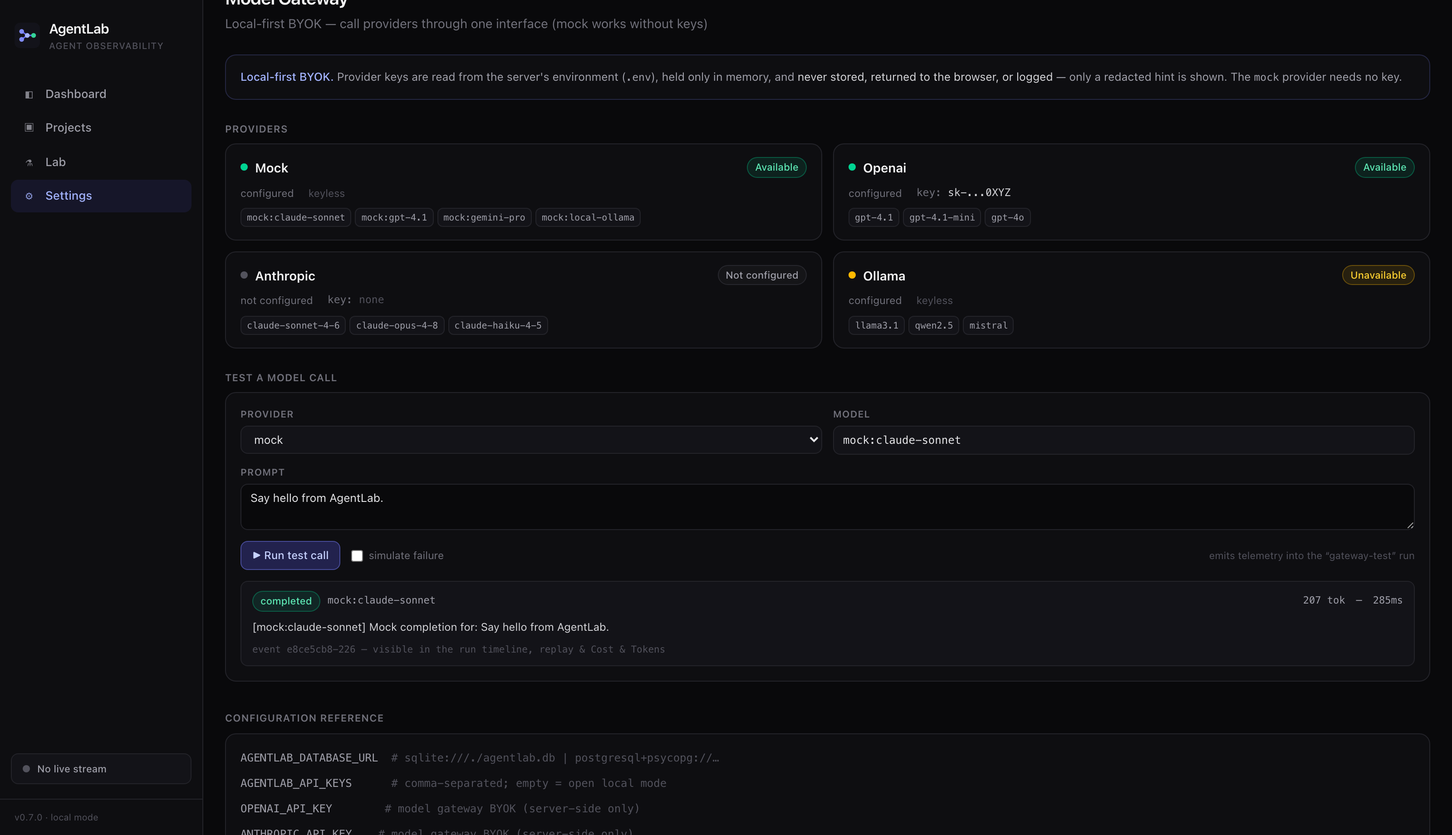
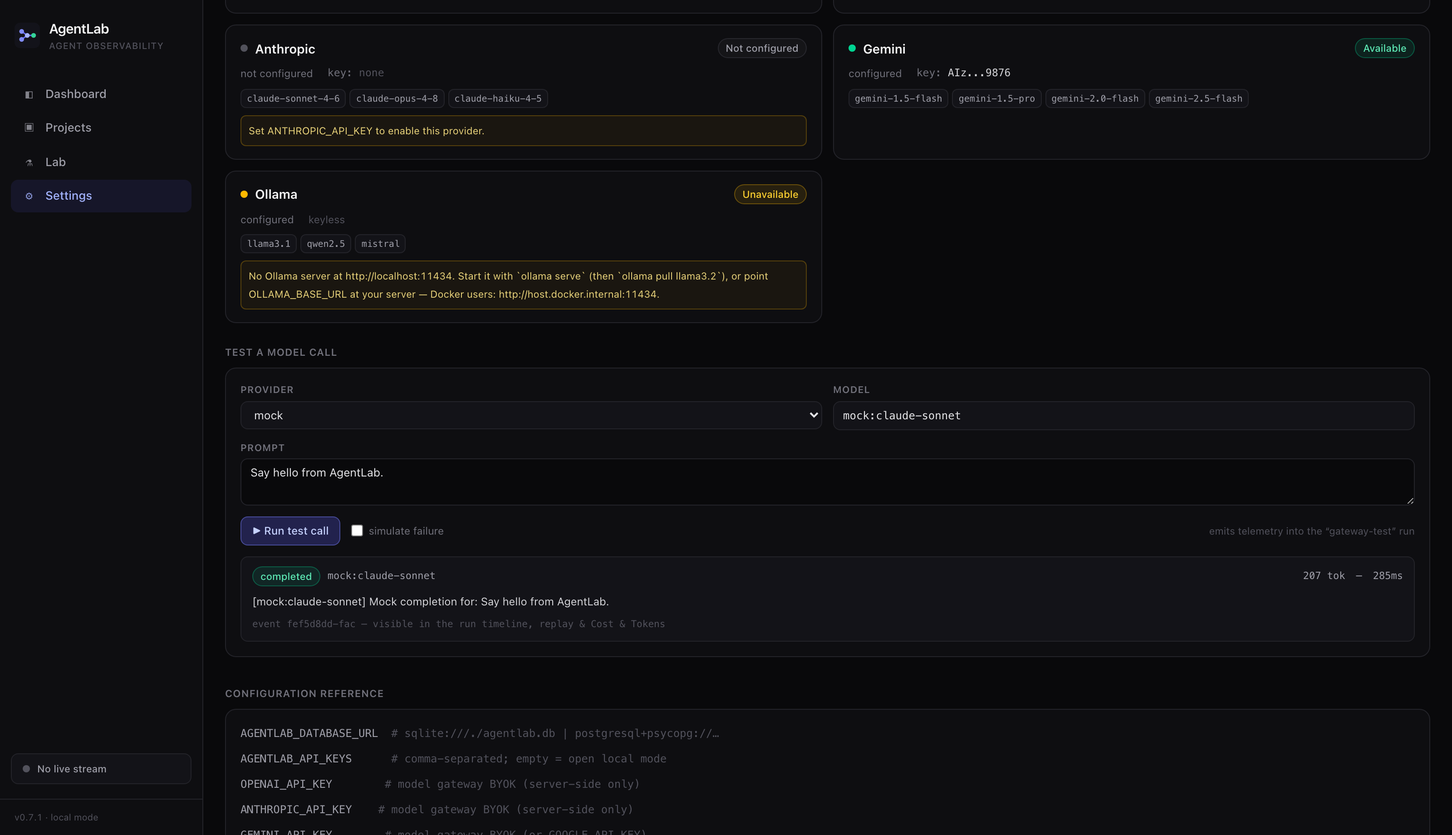
docs(v0.7.1): Gemini + Ollama troubleshooting shipped — README gateway guide + refreshed screenshot, ARCHITECTURE, ROADMAP, spec; add HANDOFF.md

diff --git a/docs/HANDOFF.md b/docs/HANDOFF.md
@@ -1,0 +1,140 @@
+# AgentLab — Project Handoff Packet
+
+> Snapshot taken 2026-06-12, at the start of the v0.7.1 Model Gateway patch.
+> Status in §6 reflects that moment; see git history for anything later.
+
+## 1. One-paragraph product summary
+
+AgentLab is a production-style observability and control plane for multi-agent AI systems — "Wireshark + Mininet + Kubernetes for AI agents." It instruments agent apps via a zero-dependency Python SDK, collects events into a FastAPI backend, and renders a dark-mode React dashboard: live agent topology (React Flow), message-level inspection, run metrics, a replay debugger, a fault-injection lab, a malicious-agent cyber range, a deterministic trust/risk engine, a cost/token profiler, and a local-first model gateway with BYOK. What makes it different from prompt-tracing tools (LangSmith/Langfuse): it treats a multi-agent run as a network (agents=nodes, messages=packets, runs=captures) and is the debugging/testing/control layer on top of any framework. Repo is a portfolio-grade project at `/Users/aryannagwekar/public1/agentlab` (own git repo, branch `main`). Built incrementally with an explicit owner approval gate between every version.
+
+## 2. Completed versions
+
+Each shipped with: live browser verification, generated screenshots (`apps/web npm run screenshots` → `docs/screenshots/`), docs (README/ARCHITECTURE/ROADMAP/PRODUCT_SPEC), and a final report ending in an approval question.
+
+- **v0.1 Live Observability** — SDK (`packages/sdk-python/agentlab/`: `_events.py` 22-type registry, `_context.py` contextvars run→agent→span, `_transport.py` buffered bg-thread urllib POST w/ retry+outage buffering, `client.py`, `decorators.py`). FastAPI collector (`apps/api/app/`: `collector.py` projections, `models.py`, `graph.py`, `metrics.py`, `ws.py`, routers). Append-only `events` table is source of truth; runs/agents/messages/tool_calls/routing_decisions are ingest-time projections. React dashboard (Vite+TS+Tailwind v4, React Flow v12, Recharts, zustand). Docker Compose + nginx + Makefile + CI. Limitation: `create_all` not Alembic; single-node WS.
+- **v0.2 Replay Debugger** — `app/replay.py` `fold_events` (pure event fold), endpoints `/runs/{id}/replay` (tape+markers) & `/replay/graph?index=k`. Frontend `components/replay/` (`replayReducer.ts` mirror, ReplayControls, ReplayView): play/pause/step/scrub, jump-to-error/tool/routing, inspector follows playhead. Limitation: tape loads once (≤5000 events), folds from scratch per cursor.
+- **v0.3 Fault Injection Lab** — `app/lab.py` (6 fault types), endpoints `/lab/fault-templates`, POST/GET `/runs/{id}/faults`. Faults = `fault.injected` + realistic follow-up telemetry. Frontend Lab page. `markers.faults` + Fault jump. Limitation: telemetry simulation only (no live traffic interception); quarantine is a visualization marker.
+- **v0.4 Malicious Agent Simulation** — `app/attacks.py` (8 attack types), endpoints `/lab/attack-templates`, POST/GET `/runs/{id}/attacks`. New event types `agent.joined`/`agent.suspicious`/`message.flagged`. Security Lab UI (mode toggle), suspicious/quarantine node states, flagged amber edges, `markers.attacks` + Attack jump. SAFETY: all mock — `MOCK_` literals, `safe_simulation:true`, `real_secrets_accessed:false`, `real_network_access:false`; no real files/env/network/shell. lab-controller excluded from topology.
+- **v0.5 Trust/Risk Engine** — `app/scoring.py` deterministic pure event-fold (Effect rule table: deltas + floors/ceilings; attack/fault score the TARGET not lab-controller; suspicious=trust≤0.5/risk≥0.6, quarantine=trust 0.1–0.2/risk≥0.9). ONE rule table shared by collector (stored Agent row)+graph+replay+metrics+JS mirror `apps/web/src/lib/scoring.ts`. Endpoints `/runs/{id}/scores|score-history|risk-summary`, `/agents/{id}/scores`. Fixed headline bug: quarantined malicious agent reads trust 0.10/risk 1.0, not 1.0. Scores derived on read → no `score.updated` emitted → no feedback loops. UI: tier badges, ScorePanel (reason+factors+history), RiskSummaryView, replay score evolution. Limitation: scores+explains but does NOT enforce (no routing impact/decay).
+- **v0.6 Cost/Token Attribution** — `app/pricing.py` static MODEL_PRICING (mock providers, USD/1M tokens, local-ollama free) + `app/costing.py` pure fold over `model.*` events → per-agent/model/run tokens+cost+latency+failures+retries. Cost ALWAYS recomputed from tokens (single source) shared by costs endpoints + metrics + graph + collector-finalize + JS mirror `apps/web/src/lib/costing.ts`. Endpoints `/runs/{id}/costs|token-summary`, `/agents/{id}/costs`, `/projects/{id}/cost-summary`. SDK `log_model_call` gained provider/model_name/input/output_tokens (back-compat). UI: Cost & Tokens tab (cards, ranking bars, model-by-provider, agent table), model-call inspector, replay "Cost so far" strip. Demo: coder most-expensive (claude-sonnet), researcher most-token-heavy (gpt-4.1), security free (local-ollama). Limitation: static pricing, mock providers only; failed call still costs input tokens (intentional).
+- **v0.7 Model Gateway / BYOK** — `app/model_gateway/`: `base.py` (ModelRequest/Response/ProviderHealth/ModelProvider + `redact_key`), `providers/` mock (keyless deterministic)/openai_compatible/anthropic/ollama, `_http.py` (stdlib urllib via asyncio.to_thread; strips headers from errors), `registry.py` (built from Settings → app.state), `telemetry.py` (gateway call → `model.called`+`completed`/`failed` through collector). `routers/model_gateway.py`: GET `/model-gateway/providers`, `/providers/{p}/health`, POST `/model-gateway/test-call`, `/runs/{id}/model-call`. SDK `client.model_call()` (clean `model.failed` if gateway unreachable, never raises). KEY SAFETY: keys env-only via Settings validation_alias + populate_by_name=True; never stored/returned/logged; only `redact_key` hint (`sk-...abcd`) exposed; a test plants a fake key and greps responses for leaks. UI: Settings → Model Gateway (provider cards + safe test-call). Demo `--use-gateway`. Frontend tests use Testing Library + jsdom (`// @vitest-environment jsdom`). Limitation: local-first BYOK only (no cloud secret storage), no Gemini provider yet (was deferred → now v0.7.1).
+
+## 3. Current architecture
+
+- **Backend (`apps/api/app/`)**: FastAPI app factory `main.py` (`create_app(Settings)`, lifespan create_all w/ Postgres retry, CORS, `/api/health`, WS). `config.py` Settings (env_prefix `AGENTLAB_`, populate_by_name=True; provider keys via `validation_alias=AliasChoices(...)`). `db.py` (engine per app), `models.py` (Project/Run/Agent[PK project_id+id]/Event[append-only, `meta`→`metadata` col]/Message/ToolCall/RoutingDecision), `schemas.py` (Pydantic wire contract). Routers: events, projects, runs, agents, lab, scoring, costs, model_gateway. Engines: `scoring.py`, `costing.py`, `pricing.py`, `graph.py`, `replay.py`, `metrics.py`, `model_gateway/`.
+- **Event pipeline**: SDK buffered transport → POST `/api/events` (single or `{events:[...]}`, idempotent by `event_id`, optional X-API-Key) → `collector.process_events` (auto-create project/run/agent shells, per-type projections, applies scoring+costing to stored Agent/Run rows) → WS broadcast per project. Read APIs derive graph/metrics/scores/costs/replay on read from the event stream.
+- **DB/projections**: SQLite default (`AGENTLAB_DATABASE_URL`), Postgres in compose. `events` append-only source of truth; everything else is a projection. JSON cols (JSONB on Postgres). Timestamps naive UTC, serialized with Z.
+- **WebSocket**: WS `/ws/projects/{project_id}`, server-push `{type:"event", data:EventOut}`, per-project ConnectionManager, dead-socket eviction never breaks ingest. Frontend `hooks/useProjectStream.ts` reconnecting.
+- **Replay fold**: ordered tape (timestamp, id); `fold_events`/`foldReplayGraph` reconstruct topology at cursor k; scoring + costing JS mirrors give per-cursor evolution. Same-semantics Python↔JS pinned by pytest+vitest.
+- **Frontend (`apps/web/src/`)**: `lib/` (api.ts, types.ts, format.ts, status.ts, scoring.ts, costing.ts), `components/` (topology, timeline, inspector, replay, metrics, scoring, costs, gateway, layout, ui), `pages/` (Dashboard, Projects, ProjectDetail, RunDetail[tabs: topology/timeline/metrics/cost/replay], AgentDetail, Lab, Settings). RunDetail inspector gets runId for run-scoped score panels.
+- **SDK (`packages/sdk-python/agentlab/`)**: zero runtime deps; `AGENTLAB_DISABLED=1` no-op; `model_call` does direct urllib POST to gateway (stores `self._api_key`).
+
+## 4. Important commands
+
+```sh
+make install                                   # venv + editable installs + npm install
+make dev                                       # API :8000 (SQLite) + seed-if-empty + dashboard :5173
+make demo                                      # seed demo runs
+make test                                      # backend + SDK pytest  (apps/api/tests + packages/sdk-python/tests)
+cd apps/web && npm test                        # vitest (incl. jsdom component tests)
+cd apps/web && npm run build                   # tsc --noEmit && vite build
+cd apps/web && npm run screenshots             # Playwright → docs/screenshots (needs API+demo seeded)
+make up-demo                                   # docker compose stack + seed (:3000)
+python examples/basic_multi_agent/run_demo.py --fast --seed 5                    # seed all 5 scenarios
+python examples/basic_multi_agent/run_demo.py --scenario success --use-gateway   # route via gateway (mock)
+# Model gateway:
+curl localhost:8000/api/model-gateway/providers
+curl -X POST localhost:8000/api/runs/<run>/model-call -H 'Content-Type: application/json' \
+  -d '{"provider":"mock","model_name":"mock:claude-sonnet","prompt":"hi","agent_id":"planner","project_id":"demo-project"}'
+# Ollama check:
+curl http://localhost:11434/api/tags           # ollama serve; ollama pull llama3.2
+```
+
+Preview server config: `agentlab-web` entry in `/Users/aryannagwekar/public1/.claude/launch.json` (shared with aryan-junction — don't clobber). React Flow nodes need real pointerdown/up events in preview, not synthetic `.click()`.
+
+## 5. Environment variables
+
+| Var | Required? | Notes |
+| --- | --- | --- |
+| `AGENTLAB_DATABASE_URL` | optional | default `sqlite:///./agentlab.db`; compose injects Postgres |
+| `AGENTLAB_API_KEYS` | optional | comma-sep; empty = open local mode; if set, write path needs X-API-Key |
+| `AGENTLAB_CORS_ORIGINS` | optional | default localhost:3000,5173 |
+| `AGENTLAB_DISABLED` | optional | `=1` makes SDK a no-op |
+| `OPENAI_API_KEY` / `OPENAI_BASE_URL` | optional | gateway BYOK; base_url default api.openai.com/v1 (also OpenRouter via `OPENROUTER_API_KEY`) |
+| `ANTHROPIC_API_KEY` | optional | gateway BYOK |
+| `GEMINI_API_KEY` / `GOOGLE_API_KEY` | optional | added in v0.7.1; GEMINI preferred (AliasChoices left-to-right); `GEMINI_BASE_URL` overridable for tests |
+| `OLLAMA_BASE_URL` | optional | default http://localhost:11434; Docker users: http://host.docker.internal:11434 |
+
+**Key security rules (NON-NEGOTIABLE)**: keys read from server env only (never DB), never returned to frontend, never logged, never in exceptions (HTTP helper strips headers), never committed (`.env` gitignored; `.env.example` placeholders only). UI shows redacted hint only (`sk-...abcd` / `AIza...abcd`). Mock provider works with zero keys. A pytest plants a fake key and greps all responses to prove no leak.
+
+## 6. Current exact status (at snapshot time)
+
+- **Version**: v0.7 fully shipped & committed (api/web both at 0.7.0). **v0.7.1 IN PROGRESS, UNCOMMITTED.**
+- **Latest commits (HEAD = 419e144)**: `419e144` docs(v0.7) · `744fc11` feat(web) gateway UI · `2f9287c` feat(api+sdk) gateway · then v0.6 commits.
+- **Test counts (v0.7, all green)**: 130 pytest (apps/api + SDK), 42 vitest. Clean web build, zero console errors.
+- **Known bugs**: none open. (v0.4 trust=1.0 bug fixed in v0.5.)
+- **Known limitations**: static pricing/mock providers for cost; gateway local-first BYOK only; scoring doesn't enforce; replay tape snapshot ≤5000 events; create_all not Alembic; read API unauthenticated in local mode.
+- **Fully demoable**: all of v0.1–v0.7 (topology, replay, fault lab, security lab, trust/risk, cost/tokens, model gateway test-call).
+- **Not built yet**: Gemini provider UI/tests + Ollama troubleshooting (v0.7.1, partially done), Agent Builder Studio (v0.8), framework adapters, teams/auth, hosted platform.
+
+### EXACT v0.7.1 in-progress state (uncommitted working-tree changes)
+
+DONE (uncommitted):
+
+- `apps/api/app/model_gateway/providers/gemini.py` — full GeminiProvider (generateContent API, key as `?key=` query param, defensive usageMetadata parsing, models gemini-1.5-flash/1.5-pro/2.0-flash/2.5-flash, not_configured w/o key, complete/health_check, redact_key).
+- `apps/api/app/config.py` — added `gemini_api_key` (AliasChoices GEMINI_API_KEY, GOOGLE_API_KEY, AGENTLAB_GEMINI_API_KEY) + `gemini_base_url`.
+- `apps/api/app/model_gateway/registry.py` — registered GeminiProvider between anthropic and ollama.
+
+STILL TODO for v0.7.1:
+
+- `schemas.py` ProviderOut: add `message: str | None = None`.
+- `routers/model_gateway.py` list_providers: populate `message=health.detail`.
+- `providers/ollama.py` health_check: richer troubleshooting detail (mention OLLAMA_BASE_URL value + host.docker.internal for Docker).
+- Version bumps to 0.7.1: `apps/api/app/main.py` API_VERSION, `apps/api/pyproject.toml`, `apps/web/package.json`, `apps/web/src/components/layout/Shell.tsx` ("v0.7.1 · local mode").
+- `.env.example`: add GEMINI_API_KEY/GOOGLE_API_KEY + Ollama Docker host.docker.internal note.
+- Backend tests (`apps/api/tests/test_model_gateway.py`): Gemini in registry, not_configured w/o key, configured w/ key, redacted, no key leak (extend planted-secret test to include Gemini), gemini test-call failure captured safely (use gemini_base_url → `http://127.0.0.1:9/...` for fast connection-refused), ollama unavailable helpful message.
+- Frontend: `lib/types.ts` `Provider.message?: string`; `components/gateway/ModelGateway.tsx` render message hint (amber for unavailable/not_configured); `ModelGateway.test.tsx` add Gemini card + Ollama-unavailable-message tests (extend fixture with gemini + ollama-unavailable).
+- Docs: README (Gemini in providers list + Ollama troubleshooting block: curl /api/tags, ollama serve, ollama pull llama3.2, Docker host.docker.internal), ARCHITECTURE, ROADMAP, PRODUCT_SPEC; mention Gemini key stays server-side, Agent Builder Studio remains v0.8.
+- Run `make test` + `cd apps/web && npm test && npm run build`; live-verify provider cards (5 now: Mock/OpenAI/Anthropic/Gemini/Ollama) + key-leak grep; commit; final report.
+
+## 7. Next planned work
+
+1. **FIRST — finish v0.7.1 Model Gateway patch** (above TODO list). Do NOT start Agent Builder Studio until this is committed and green.
+2. **THEN — v0.8 Agent Builder Studio** (only after explicit approval): visual workflow builder; create agents; assign provider/model per agent (built on the gateway); connect agents; run workflow; emit normal AgentLab telemetry (reuse `model.`/`agent.`/`message.*` events so graph/replay/cost/trust all work for free); show replay/cost/failure attribution. No SaaS/auth/billing/templates/cloud-secrets.
+
+## 8. Critical product direction
+
+The arc: turn AgentLab from an observability tool into "a full multi-agent development studio where users connect OpenAI/Claude/Gemini/Ollama, build workflows, run them, and visually see which agent failed, which used the most tokens, which cost the most, and what happened step by step." Every layer so far (gateway, cost, trust, replay) is the substrate for the v0.8 studio. Keep the "instrument → collect → visualize → inspect → replay → test → attribute" loop intact; the studio just adds authoring on top.
+
+## 9. Rules for the next assistant
+
+- Keep versions disciplined; one version at a time; always end each version with a final report and the approval question, then STOP.
+- Do NOT build SaaS/auth/RBAC/billing/Slack-alerts/cloud-secret-storage/policy-engine yet.
+- Do NOT skip v0.7.1 — finish Gemini + Ollama patching first.
+- Do NOT start Agent Builder Studio until the Model Gateway is stable & committed.
+- Keep the mock provider working without any keys; never expose/store/log API keys (redacted only); keep `.env` gitignored.
+- Keep ALL tests passing (run `make test` + `npm test` + `npm run build` before every commit); maintain Python↔JS mirror parity (scoring.py↔scoring.ts, costing.py↔costing.ts, replay fold).
+- Single-source-of-truth discipline: derive on read; don't duplicate aggregation logic.
+- Verify live in browser preview with real screenshots before claiming done; never assert without evidence.
+- Commit style: `feat(scope):`/`docs(vX):` with `Co-Authored-By: Claude Fable 5 <noreply@anthropic.com>`. Branch `main`.
+- Project memory lives at `/Users/aryannagwekar/.claude/projects/-Users-aryannagwekar-public1/memory/agentlab-project.md` (update phase status there).
+
+## 10. Exact next prompt to paste into a new chat
+
+> Continue the AgentLab project at /Users/aryannagwekar/public1/agentlab (branch main). Read /Users/aryannagwekar/.claude/projects/-Users-aryannagwekar-public1/memory/agentlab-project.md and ARCHITECTURE.md first.
+>
+> Finish v0.7.1 Model Gateway patch (do NOT start v0.8 Agent Builder Studio yet). v0.7 is fully committed (HEAD 419e144, 130 pytest + 42 vitest green). v0.7.1 is partially done in the working tree, uncommitted: model_gateway/providers/gemini.py (GeminiProvider) exists, config.py has gemini_api_key/gemini_base_url, and registry.py registers Gemini. Run git status and make test to confirm the starting point.
+>
+> Complete v0.7.1:
+> - schemas.py ProviderOut: add message: str | None; routers/model_gateway.py list_providers: set message=health.detail.
+> - providers/ollama.py health_check: richer troubleshooting message (include the OLLAMA_BASE_URL value and a host.docker.internal:11434 hint for Docker users).
+> - Bump versions to 0.7.1: app/main.py API_VERSION, apps/api/pyproject.toml, apps/web/package.json, Shell.tsx.
+> - .env.example: add GEMINI_API_KEY/GOOGLE_API_KEY + Ollama Docker host.docker.internal note.
+> - Backend tests (test_model_gateway.py): Gemini registry/not-configured/configured/redacted/no-key-leak (extend the planted-fake-key grep test to include a fake GEMINI_API_KEY), Gemini test-call failure captured safely (point gemini_base_url at http://127.0.0.1:9/... for a fast connection-refused), Ollama unavailable returns the helpful message. Keep all existing v0.7 tests green.
+> - Frontend: types.ts Provider.message?; ModelGateway.tsx render the troubleshooting hint (amber for unavailable/not_configured) and show OLLAMA_BASE_URL; ModelGateway.test.tsx add Gemini-card + Ollama-unavailable-message tests; never show a raw key.
+> - Docs (README/ARCHITECTURE/ROADMAP/PRODUCT_SPEC): Gemini added in v0.7.1 (key server-side, redacted), Ollama troubleshooting (curl localhost:11434/api/tags, ollama serve, ollama pull llama3.2, Docker host.docker.internal), keys still never stored in DB, Agent Builder Studio remains v0.8.
+> - Run make test + cd apps/web && npm test && npm run build; verify live that 5 provider cards render (Mock/OpenAI/Anthropic/Gemini/Ollama) with redacted keys and a key-leak grep finds nothing; regenerate the model-gateway screenshot; commit.
+>
+> Security rules: keys env-only, never stored/returned/logged/committed; redacted in UI; mock provider works without keys. Discipline: keep all tests passing, derive-on-read single source of truth, maintain Python↔JS mirror parity, verify live with screenshots.
+>
+> When v0.7.1 is complete, stop and give the final report (files changed, commits, tests, Gemini status, Ollama troubleshooting improvement, security guarantees, demoability) and ask: "Do you approve AgentLab v0.7.1 Model Gateway patch so I can continue to v0.8 Agent Builder Studio?"

diff --git a/README.md b/README.md
@@ -10,7 +10,7 @@ run metrics, a replay debugger that steps through any run like a packet
 capture, a fault-injection lab, a safe cyber range for simulating malicious
 agents, a deterministic trust/risk engine, a cost/token profiler, and a
 local-first model gateway with safe BYOK across mock / OpenAI / Anthropic /
-Ollama providers.
+Gemini / Ollama providers.
 
 `Python 3.12` · `FastAPI` · `PostgreSQL/SQLite` · `React 18 + TypeScript` · `React Flow` · `WebSockets` · `Docker Compose`
 
@@ -35,7 +35,7 @@ AgentLab treats an agent system the way network engineers treat a network:
 agents are nodes, messages are packets, runs are captures you can open,
 inspect, and (soon) replay.
 
-## What works today (v0.7)
+## What works today (v0.7.1)
 
 | Capability | Status |
 | --- | --- |
@@ -52,7 +52,7 @@ inspect, and (soon) replay.
 | Security Lab — 8 simulated malicious-agent attacks (prompt injection, mock exfiltration, fake capabilities, spam, trust poisoning, routing manipulation, unsafe tool request, rogue join); suspicious/quarantine markers, flagged edges, attack replay markers — all mock data, nothing real touched | ✅ |
 | Trust/risk engine — deterministic, event-derived, explainable scores: per-agent trust + risk, tier badges (trusted → high-risk), "why it changed" factors, score history, run risk summary, and scores that evolve step-by-step in replay | ✅ |
 | Cost/token profiler — deterministic local pricing; per-agent + per-model + per-run token and USD attribution; most-expensive / most-token-heavy / slowest / failed-call rankings; model-call inspector; cost that accumulates in replay | ✅ |
-| Model gateway / BYOK — one provider interface (mock + OpenAI-compatible + Anthropic + Ollama); local-first keys (env-only, never stored/returned/logged, redacted in UI); provider health + safe test-call UI; gateway calls flow into telemetry, replay, and Cost & Tokens | ✅ |
+| Model gateway / BYOK — one provider interface (mock + OpenAI-compatible + Anthropic + Gemini + Ollama); local-first keys (env-only, never stored/returned/logged, redacted in UI); provider health + troubleshooting hints + safe test-call UI; gateway calls flow into telemetry, replay, and Cost & Tokens | ✅ |
 | Agent Builder Studio (create agents + assign models in-app) | 🔜 v0.8 |
 
 ## Architecture
@@ -203,7 +203,7 @@ local-first BYOK — keys are env-only and shown **only redacted** (`sk-...0XYZ`
 the mock provider needs no key, and a test call flows straight into telemetry
 and Cost & Tokens:
 
-![Model Gateway: provider cards (mock available, OpenAI configured with a redacted key, Anthropic not configured, Ollama unavailable) and a safe test-call panel](docs/screenshots/model-gateway.png)
+![Model Gateway: five provider cards (mock available, OpenAI and Gemini configured with redacted keys, Anthropic not configured with an env-var hint, Ollama unavailable with a troubleshooting hint) and a safe mock test call](docs/screenshots/model-gateway.png)
 
 | Fleet dashboard | Message inspector |
 | --- | --- |
@@ -311,25 +311,28 @@ Endpoints: `GET /api/runs/{id}/costs`, `/runs/{id}/token-summary`,
 `mock:gpt-4.1`, `mock:claude-sonnet`, `mock:gemini-pro`, `mock:local-ollama`
 (free). Connecting real providers (BYOK / model gateway) is v0.7.
 
-## Model Gateway / BYOK (v0.7)
+## Model Gateway / BYOK (v0.7, patched in v0.7.1)
 
 AgentLab calls models through one provider interface
 (`apps/api/app/model_gateway/`). The **mock** provider is the keyless default;
-**OpenAI-compatible**, **Anthropic**, and **Ollama** providers are included, and
-OpenRouter reuses the OpenAI-compatible path. A model call (from the SDK's
-`client.model_call(...)`, the test-call UI, or `POST /api/runs/{id}/model-call`)
-runs the provider and emits `model.called` + `model.completed`/`model.failed`
-through the normal collector — so it shows up in the graph, replay, inspector,
-metrics, and Cost & Tokens automatically.
+**OpenAI-compatible**, **Anthropic**, **Gemini** (added in v0.7.1), and
+**Ollama** providers are included, and OpenRouter reuses the OpenAI-compatible
+path. A model call (from the SDK's `client.model_call(...)`, the test-call UI,
+or `POST /api/runs/{id}/model-call`) runs the provider and emits
+`model.called` + `model.completed`/`model.failed` through the normal
+collector — so it shows up in the graph, replay, inspector, metrics, and Cost
+& Tokens automatically.
 
 **Key handling (local-first, safe by construction):**
 
 - Keys are read from the **server environment only** (`OPENAI_API_KEY`,
-  `ANTHROPIC_API_KEY`, `OLLAMA_BASE_URL`, `OPENROUTER_API_KEY`).
+  `ANTHROPIC_API_KEY`, `GEMINI_API_KEY`/`GOOGLE_API_KEY` — GEMINI wins when
+  both are set — `OLLAMA_BASE_URL`, `OPENROUTER_API_KEY`).
 - They are **never** stored in the database, returned to the browser, written to
   logs, or included in error messages (HTTP errors strip request headers).
-- The UI shows **only a redacted hint** (`sk-...abcd`); an unconfigured provider
-  reads "not configured"; Ollama with no server reads "unavailable".
+- The UI shows **only a redacted hint** (`sk-...abcd` / `AIz...abcd`); an
+  unconfigured provider reads "not configured" with the env var to set; Ollama
+  with no server reads "unavailable" with a fix-it hint.
 - `.env` is git-ignored; `.env.example` ships placeholders only.
 
 Configure a provider by setting its key in `.env`, then open **Settings → Model
@@ -340,7 +343,18 @@ Seed a gateway-routed demo run with:
 python examples/basic_multi_agent/run_demo.py --scenario success --use-gateway
 ```
 
-## Known limitations (v0.1–v0.7)
+**Ollama troubleshooting.** If the Ollama card reads "unavailable":
+
+```bash
+curl http://localhost:11434/api/tags   # is the server up?
+ollama serve                           # start it
+ollama pull llama3.2                   # get a model
+```
+
+The card shows the `OLLAMA_BASE_URL` it tried. Running AgentLab in Docker
+against Ollama on the host? Set `OLLAMA_BASE_URL=http://host.docker.internal:11434`.
+
+## Known limitations (v0.1–v0.7.1)
 
 - **Model gateway is local-first BYOK only.** Keys live in the server's
   environment; there is no hosted/cloud secret storage, no per-user key

diff --git a/ARCHITECTURE.md b/ARCHITECTURE.md
@@ -409,10 +409,18 @@ cost.
 
 **Providers.** `mock` (keyless default — deterministic output + token usage,
 configurable latency/failure, never networks), `openai` (OpenAI-compatible
-chat completions, reused for OpenRouter), `anthropic` (messages API), `ollama`
-(local `/api/generate`). Real providers call out with stdlib `urllib` on a
-worker thread (`asyncio.to_thread`) — no new dependency, event loop never
-blocked.
+chat completions, reused for OpenRouter), `anthropic` (messages API), `gemini`
+(generateContent API, added in v0.7.1 — `GEMINI_API_KEY`/`GOOGLE_API_KEY`,
+GEMINI preferred; key stays server-side and is redacted like every other
+provider), `ollama` (local `/api/generate`). Real providers call out with
+stdlib `urllib` on a worker thread (`asyncio.to_thread`) — no new dependency,
+event loop never blocked.
+
+**Troubleshooting hints (v0.7.1).** Each entry in the provider list carries a
+`message` (the health detail): an unconfigured provider says which env var to
+set, and an unreachable Ollama explains the configured `OLLAMA_BASE_URL`,
+`ollama serve`, and the Docker `host.docker.internal:11434` workaround. The
+dashboard renders the hint amber on unavailable/not-configured cards.
 
 **Telemetry bridge.** `telemetry.build_model_events` turns a gateway call into
 `model.called` + `model.completed`/`model.failed` `EventIn`s, run through the

diff --git a/ROADMAP.md b/ROADMAP.md
@@ -117,6 +117,20 @@ Local-first model gateway: call providers through one interface, safely.
 - Demo `--use-gateway` routes model calls through the gateway (mock)
 - 13 pytest + 2 SDK + 4 vitest gateway tests
 - Deferred: hosted/cloud secret storage, per-user keys, real Gemini provider
+  (→ v0.7.1)
+
+## v0.7.1 — Model gateway patch: Gemini + Ollama troubleshooting ✅
+
+- `GeminiProvider` (generateContent API): `GEMINI_API_KEY` / `GOOGLE_API_KEY`
+  (GEMINI preferred), key server-side only and redacted in the UI like every
+  other provider; `GEMINI_BASE_URL` overridable for tests
+- Provider list now carries a `message` troubleshooting hint (mirrors health
+  detail); rendered amber on unavailable/not-configured cards
+- Ollama health check explains how to fix "unavailable": the configured
+  `OLLAMA_BASE_URL`, `ollama serve` / `ollama pull llama3.2`, and the Docker
+  `host.docker.internal:11434` hint
+- 17 pytest + 6 vitest gateway tests (planted-key leak grep extended to Gemini)
+- Still deferred: hosted/cloud secret storage, per-user keys
 
 ## v0.8 — Agent Builder Studio (pending approval)
 

diff --git a/PRODUCT_SPEC.md b/PRODUCT_SPEC.md
@@ -111,8 +111,16 @@ a team already uses.
     stored/returned/logged, redacted in the UI; provider health + safe test-call;
     gateway calls flow into telemetry, replay, and Cost & Tokens.
 
+### Shipped in v0.7.1
+15. **Gateway patch: Gemini + troubleshooting** — Gemini provider
+    (`GEMINI_API_KEY`/`GOOGLE_API_KEY`, key server-side and redacted like every
+    other provider, never stored in the DB); provider cards surface a
+    troubleshooting hint (which env var to set; for an unreachable Ollama: the
+    configured `OLLAMA_BASE_URL`, `ollama serve`, and the Docker
+    `host.docker.internal` workaround).
+
 ### Next (gated, in order)
-15. **Agent Builder Studio (v0.8)** — define agents in-app and assign a
+16. **Agent Builder Studio (v0.8)** — define agents in-app and assign a
     provider/model to each, built on the gateway.
 
 ## Non-goals (v1)
